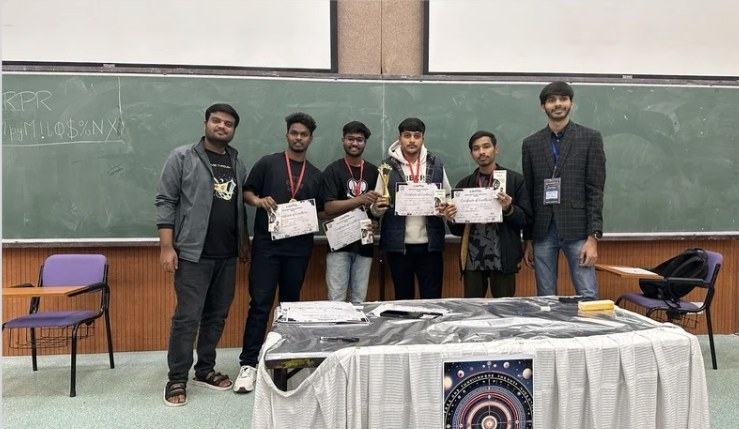
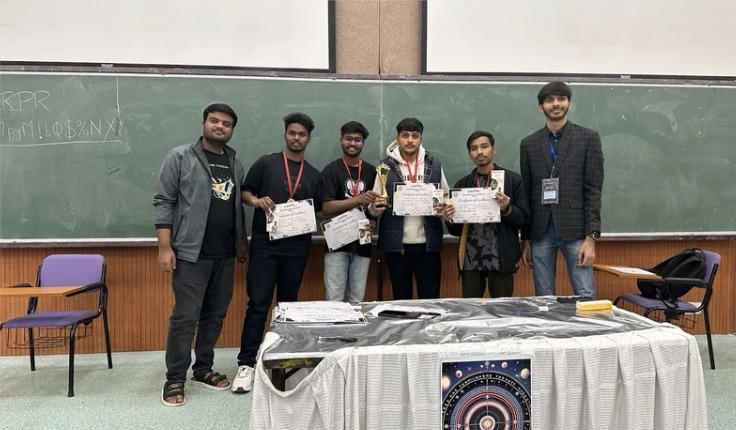
fix(achievements): remove duplicate GNA card, set GNA stat to Winners, and adjust IIT Ropar & NST Neutron photos

diff --git a/src/components/AchievementsSection.jsx b/src/components/AchievementsSection.jsx
@@ -1,4 +1,4 @@
-import React, { useRef, useState, useEffect } from 'react';
+import React, { useRef, useState, useEffect } from 'react';
 
 export default function AchievementsSection() {
   const achievements = [
@@ -12,7 +12,8 @@ export default function AchievementsSection() {
       title: "IIT Ropar Advitya '24 BGMI",
       desc: "Took 1st Place in the BGMI Championship at Advitya '24, the flagship technical fest of IIT Ropar.",
       stat: "Winners",
-      image: "/assets/achievement-iit-ropar-advitya24-bgmi.jpg"
+      image: "/assets/achievement-iit-ropar-advitya24-bgmi.jpg",
+      objectPosition: "center 20%"
     },
     {
       title: "Utkansh '25 Free Fire",
@@ -22,8 +23,8 @@ export default function AchievementsSection() {
     },
     {
       title: "Game Mania at GNA",
-      desc: "Represented NIT Jalandhar and dominated the arena at GNA University, bringing home top honors.",
-      stat: "Champions",
+      desc: "Represented NIT Jalandhar and dominated the arena at GNA University, bringing home top honors and competitive glory.",
+      stat: "Winners",
       image: "/assets/game-mania-gna.jpg"
     },
     {
@@ -42,13 +43,15 @@ export default function AchievementsSection() {
       title: "IIT Ropar Advitya '25 BGMI",
       desc: "Secured the Runners Up position in the competitive BGMI championship at Advitya '25, IIT Ropar.",
       stat: "Runners Up",
-      image: "/assets/achievement-iit-ropar-advitya25-bgmi.jpg"
+      image: "/assets/achievement-iit-ropar-advitya25-bgmi.jpg",
+      objectPosition: "center 25%"
     },
     {
       title: "NST Neutron '24 100K BGMI",
       desc: "Finished as Runners Up in the 100K prize pool BGMI tournament hosted at NST Neutron '24.",
       stat: "Runners Up",
-      image: "/assets/achievement-nst-neutron24-bgmi.jpg"
+      image: "/assets/achievement-nst-neutron24-bgmi.jpg",
+      objectPosition: "center 20%"
     },
     {
       title: "Krafton x Surge '24 BGMI",
@@ -60,12 +63,6 @@ export default function AchievementsSection() {
       title: "Inter-NIT Finalists",
       desc: "Competed fiercely and secured a top spot in the national inter-college esports tournament.",
       stat: "Grand Finalists"
-    },
-    {
-      title: "Game Mania at GNA",
-      desc: "Represented NIT Jalandhar and dominated the arena at GNA University, bringing home top honors and competitive glory.",
-      stat: "Champions",
-      image: "/assets/game-mania-gna.jpg"
     },
     {
       title: "Campus Record",
@@ -108,7 +105,7 @@ export default function AchievementsSection() {
     return () => window.removeEventListener('resize', handleScroll);
   }, []);
 
-  const thumbWidth = Math.max(12, Math.round(100 / achievements.length));
+  const thumbWidth = Math.max(10, Math.round(100 / achievements.length));
   const maxLeft = 100 - thumbWidth;
   const thumbLeft = (scrollProgress / 100) * maxLeft;
 
@@ -143,6 +140,7 @@ export default function AchievementsSection() {
                     src={item.image} 
                     alt={item.title} 
                     loading="lazy" 
+                    style={item.objectPosition ? { objectPosition: item.objectPosition } : undefined}
                     onError={(e) => {
                       if (!e.target.dataset.retried) {
                         e.target.dataset.retried = 'true';
